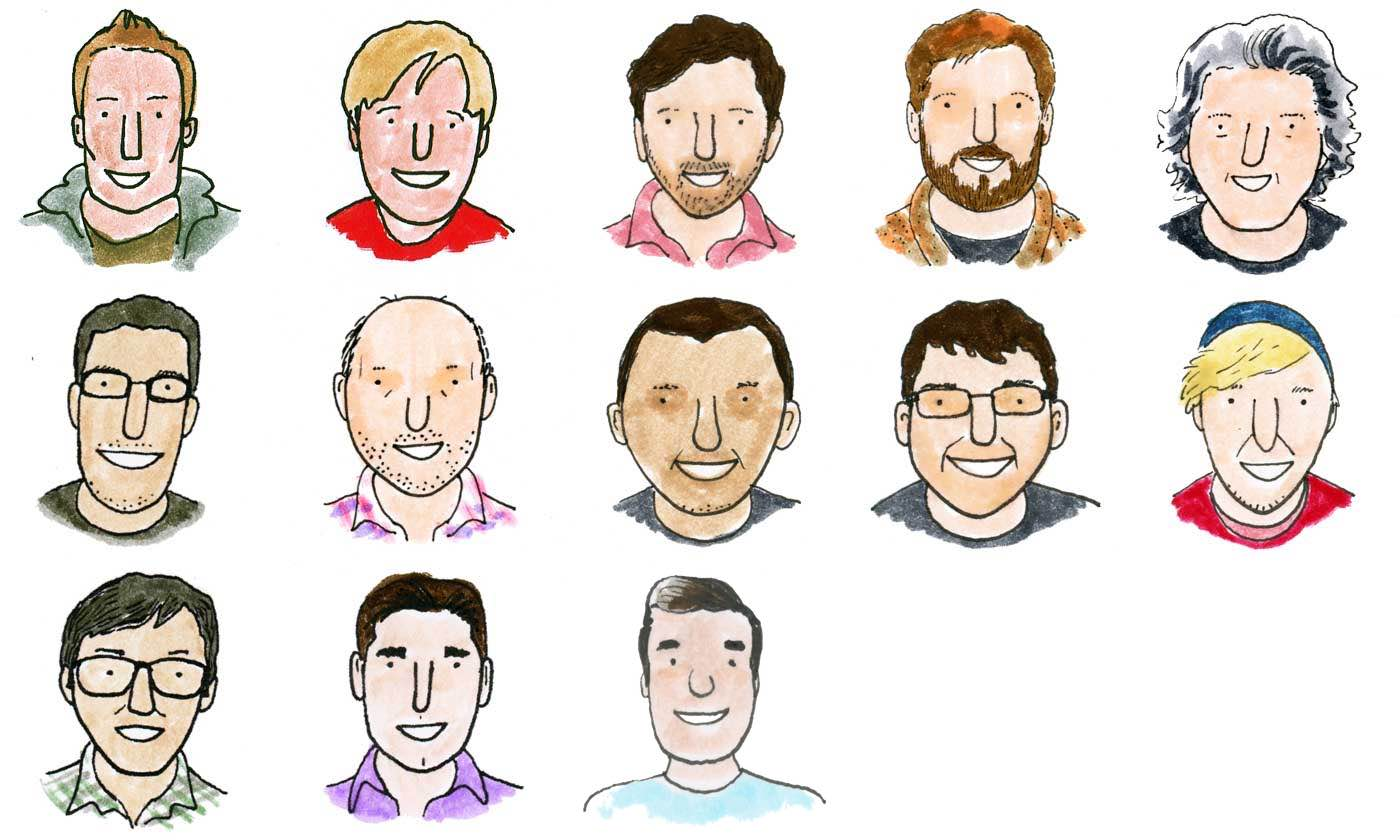
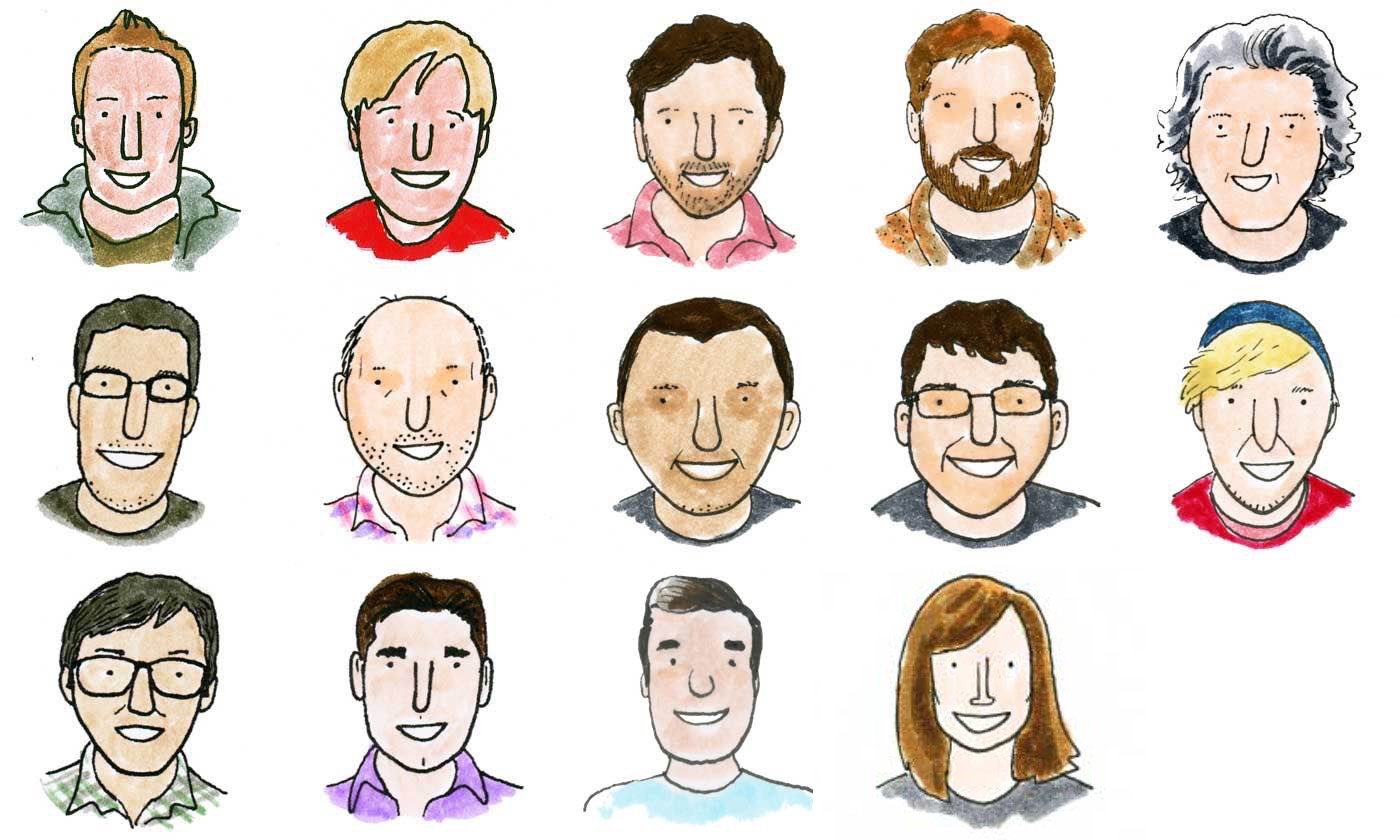
Add Eileen to Rails Core

Changed region(s): [[0.6143, 0.681, 0.7986, 0.9905]]

diff --git a/community.html b/community.html
@@ -188,6 +188,19 @@ permalink: /community/
             <a href="http://contributors.rubyonrails.org/contributors/kasper-timm-hansen/commits" target="_blank">Commits</a>
           </p>
         </div>
+
+        <div class="person">
+          <a href="https://twitter.com/eileencodes" target="_blank">
+            <figure class="contributor eileen">
+              <p><strong>Eileen</strong><br>
+              <em>Since 2017</em></p>
+            </figure>
+          </a>
+          <p class="meta">
+            USA<br>
+            <a href="http://contributors.rubyonrails.org/contributors/eileen-m-uchitelle/commits" target="_blank">Commits</a>
+          </p>
+        </div>
       </div>
 
 
@@ -195,7 +208,7 @@ permalink: /community/
 
       <p>In addition to the core team, we also have a committer team that assists with processing pull-requests and making changes to the framework, but does not have the keys to make final releases or set policy. All members of the core team came up through working on this team.</p>
 
-      <p><a href="https://twitter.com/a_matsuda">Akira Matsuda</a>, <a href="https://twitter.com/arthurnn">Arthur Nogueira Neves</a>, <a href="https://twitter.com/eileencodes">Eileen Uchitelle</a>, <a href="https://twitter.com/schneems">Richard Schneeman</a>, <a href="https://twitter.com/sgrif">Sean Griffin</a></p>
+      <p><a href="https://twitter.com/a_matsuda">Akira Matsuda</a>, <a href="https://twitter.com/arthurnn">Arthur Nogueira Neves</a>, <a href="https://twitter.com/schneems">Richard Schneeman</a>, <a href="https://twitter.com/sgrif">Sean Griffin</a></p>
 
       <h2>All other contributors</h2>
 

diff --git a/style.css b/style.css
@@ -167,6 +167,7 @@ figure.contributor {
 .godfrey { background-position: 0 560px; }
 .matthew { background-position: 560px 560px; }
 .kasper { background-position: 420px 140px; }
+.eileen { background-position: 280px 140px; }
 
 figure p { margin: 0; }
 
